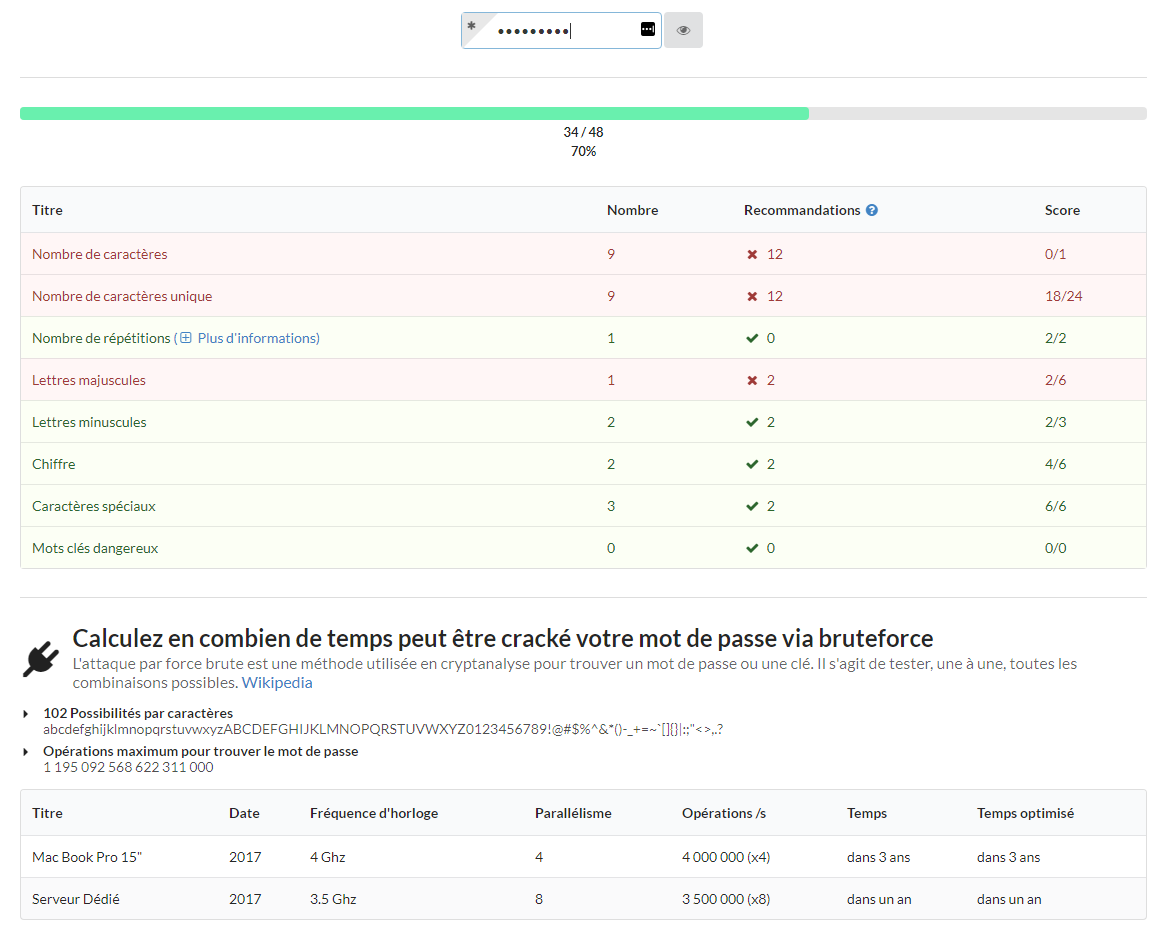
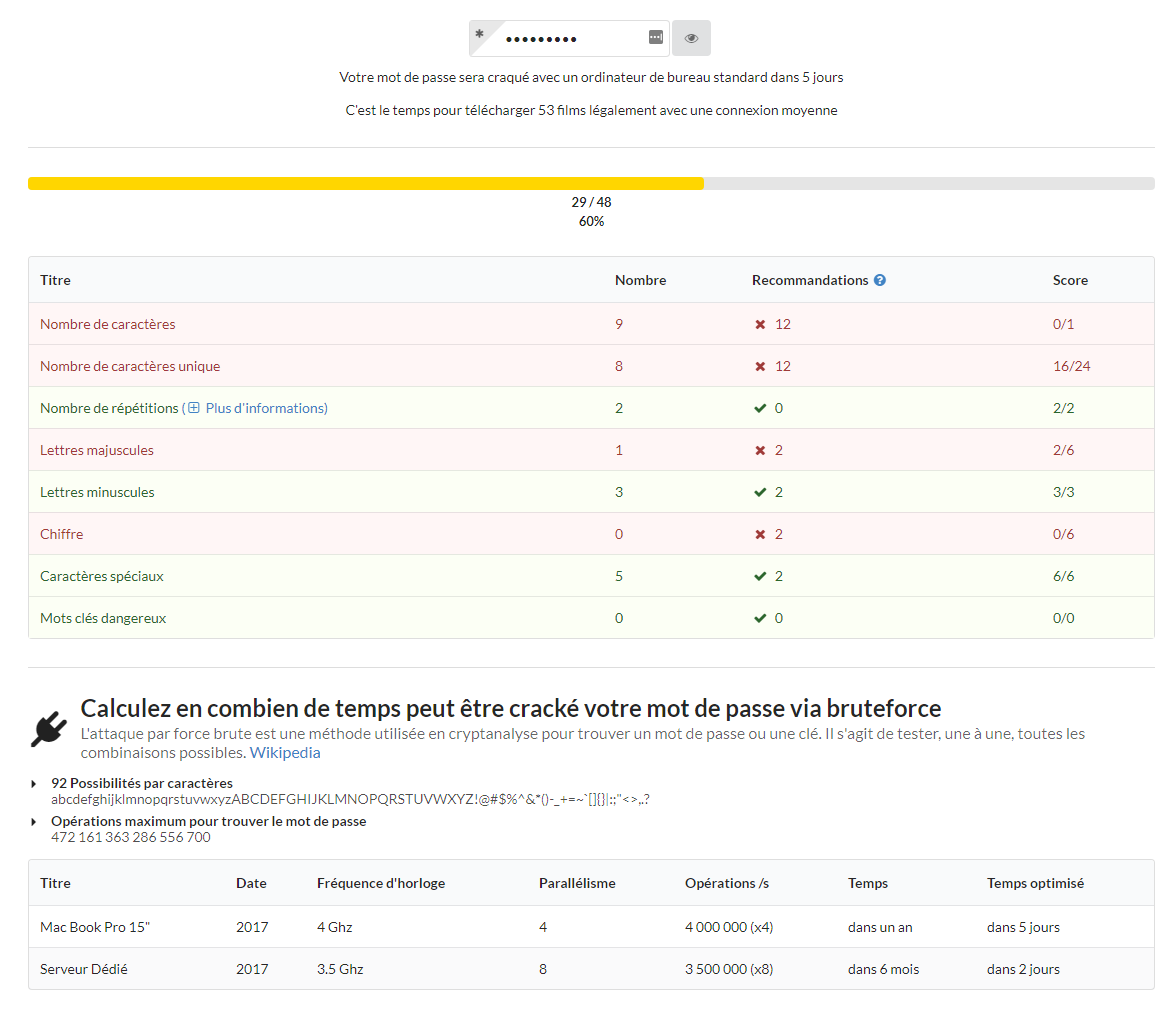
Relative Time

diff --git a/src/class/TimeTo.js b/src/class/TimeTo.js
@@ -1,0 +1,93 @@
+export default class TimeTo {
+
+  forSecondes (timems) {
+    let time = timems / 1000
+
+    if (time <= 60) { // 1M
+      return {
+        fr: 'Votre mot de passe pourrait être craqué avant même que vous n\'ayez le temps de dire "oups"',
+        en: ''
+      }
+    } else if (time <= 600) { // 10M
+      return {
+        fr: 'C\'est le temps qu\'il faut à un escargot pour parcourir ' + Math.floor(time / 60) * 25 + ' centimètres',
+        en: ''
+      }
+    } else if (time <= 3600) { // 1H
+      return {
+        fr: 'Le temps de regarder une vidéo de ' + Math.floor(time / 60) + ' minutes sur internet',
+        en: ''
+      }
+    } else if (time <= 10800) { // 3H
+      return {
+        fr: 'Marchez environ ' + Math.floor((time / 3600) * 25) + ' kilomètres et trouvez votre mot de passe craqué à votre retour.',
+        en: ''
+      }
+    } else if (time <= 36000) { // 10H
+      return {
+        fr: 'Le temps de faire un voyage de ' + Math.floor(320 * (time / 3600)) + 'KM en TGV',
+        en: ''
+      }
+    } else if (time <= 86400) { // 24H
+      return {
+        fr: 'C\'est le temps pour télécharger un fichier de ' + Math.floor(24 * (time / 3600)) + 'Mo avec un modem 56K',
+        en: ''
+      }
+    } else if (time <= 172800) { // 48H
+      return {
+        fr: 'La Station Spacial Internationnal (ISS) aura fait ' + Math.floor(time / 5400) + ' orbites autour de la terre',
+        en: ''
+      }
+    } else if (time <= 604800) { // 1 Week
+      return {
+        fr: 'C\'est le temps pour télécharger ' + Math.floor((450 * (time / 3600)) / 1000) + ' films légalement avec une connexion moyenne',
+        en: ''
+      }
+    } else if (time <= 1209600) { // 2 Week
+      return {
+        fr: 'C\'est le temps nécessaire pour graver ' + Math.floor(time / (15 * 60)) + ' DVD',
+        en: ''
+      }
+    } else if (time <= 2419200) { // 1 Month
+      return {
+        fr: 'C\'est assez pour faire ' + Math.floor((time / 30000) * 2) + ' vols aller retour Paris - New York',
+        en: ''
+      }
+    } else if (time <= 14515200) { // 6 Month
+      return {
+        fr: 'C\'est le temps que met un romancier pour écrire ' + Math.floor(time / 25920) + ' pages de son roman',
+        en: ''
+      }
+    } else if (time <= 58060800) { // 2 Y
+      return {
+        fr: 'C\'est le temps nécessaire pour construire' + Math.floor(time / 18408600) + ' maisons',
+        en: ''
+      }
+    } else if (time <= 145152000) { // 5 Y
+      return {
+        fr: 'Neil Armstrong et Buzz Aldrin auraient fait ' + Math.floor(time / 703080) + ' aller retour Terre - Lune',
+        en: ''
+      }
+    } else if (time <= 290304000) { // 10 Y
+      return {
+        fr: 'C\'est le délai de construction de ' + Math.abs(time / 94608000) + ' RMS Titanic',
+        en: ''
+      }
+    } else if (time <= 11612160000) { // 400 Y
+      return {
+        fr: 'C\'est le temps qu\'il faut pour réaliser ' + Math.floor(time / 378432000) + ' nouvelles fusées (de la fabrication des premiers prototypes jusqu\'au premier lancement)',
+        en: ''
+      }
+    } else if (time <= 630720000000) { // 20 000 Y
+      return {
+        fr: 'C\'est le temps nécessaire pour envoyer des hommes faire ' + Math.floor(time / ((78624000 + 31536000) * 2)) + ' aller retour Terre - Mars',
+        en: ''
+      }
+    } else {
+      return {
+        fr: 'Vous pouvez trouver la réponse à la Grande Question sur la vie, l\'univers et le reste sans avoir à vous préoccuper pour votre mot de passe.',
+        en: ''
+      }
+    }
+  }
+}

diff --git a/src/components/TimeTo.vue b/src/components/TimeTo.vue
@@ -1,0 +1,41 @@
+<template>
+  <div class="time-to" v-if="Times.stats().possibility > 0">
+    <p>Votre mot de passe sera craqué avec un ordinateur de bureau standard {{momentjs(new Date().getTime() + TimeTo.time).fromNow()}}</p>
+    <p>{{TimeTo.str}}</p>
+  </div>
+</template>
+
+<script>
+import moment from 'moment'
+moment.locale('fr')
+
+export default {
+  name: 'timeTo',
+  data () {
+    return {
+      momentjs: moment
+    }
+  },
+  computed: {
+    TimeTo: function () {
+      let time = Math.floor(this.$store.state.Times.operation()[0].time_optimyze)
+      let timeTo = this.$store.state.TimeTo.forSecondes(time).fr
+      return {
+        time: time,
+        str: timeTo
+      }
+    },
+    Times: function () {
+      return this.$store.state.Times
+    }
+  }
+}
+</script>
+
+<!-- Add "scoped" attribute to limit CSS to this component only -->
+<style scoped>
+.time-to{
+  text-align:center;
+  margin-top: 10px;
+}
+</style>

diff --git a/src/store.js b/src/store.js
@@ -1,6 +1,7 @@
 import Vue from 'vue'
 import Vuex from 'vuex'
 
+import TimeTo from './class/TimeTo'
 import CharPassword from './class/CharPassword'
 import UsePassword from './class/UsePassword'
 import TimePassword from './class/TimePassword'
@@ -10,6 +11,7 @@ Vue.use(Vuex)
 // Initial state object
 const state = {
   password: '',
+  TimeTo: new TimeTo(),
   Stats: new CharPassword(''),
   Use: new UsePassword(),
   Times: new TimePassword(new CharPassword(''))
@@ -21,7 +23,6 @@ const mutations = {
     state.password = password
     state.Stats = new CharPassword(state.password)
     state.Times = new TimePassword(state.Stats)
-    console.log(state.Times)
   }
 }
 

diff --git a/src/App.vue b/src/App.vue
@@ -1,6 +1,7 @@
 <template>
   <div id="app" class="ui main container">
     <password></password>
+    <time-to></time-to>
     <div class="ui section divider"></div>
     <stats></stats>
     <div class="ui section divider"></div>
@@ -10,6 +11,7 @@
 
 <script>
 import Password from './components/Password'
+import TimeTo from './components/TimeTo'
 import Stats from './components/Stats'
 import Times from './components/Times'
 
@@ -17,6 +19,7 @@ export default {
   name: 'app',
   components: {
     Password,
+    TimeTo,
     Stats,
     Times
   }

diff --git a/src/components/Stats.vue b/src/components/Stats.vue
@@ -35,12 +35,15 @@
       </div>
     </ya-modal>
 
-    <!-- Table -->
-    <div class="ui small progress">
+    <!-- Progress -->
+    <div class="ui small progress" v-if="characters.total > 0">
       <div class="bar" :style="'background-color:' + score.color + ';width:' + score.prc +'%'"></div>
       <div class="label">{{ score.total }} / {{score.max}}<br/>{{score.prc}}%</div>
     </div>
+
     <br />
+
+    <!-- Table -->
     <table class="ui striped table">
       <thead>
         <tr>

diff --git a/src/components/Times.vue b/src/components/Times.vue
@@ -88,7 +88,6 @@ moment.locale('fr')
 export default {
   name: 'times',
   data: function () {
-    console.log(humanize)
     return {
       momentjs: moment,
       humanizejs: humanize
